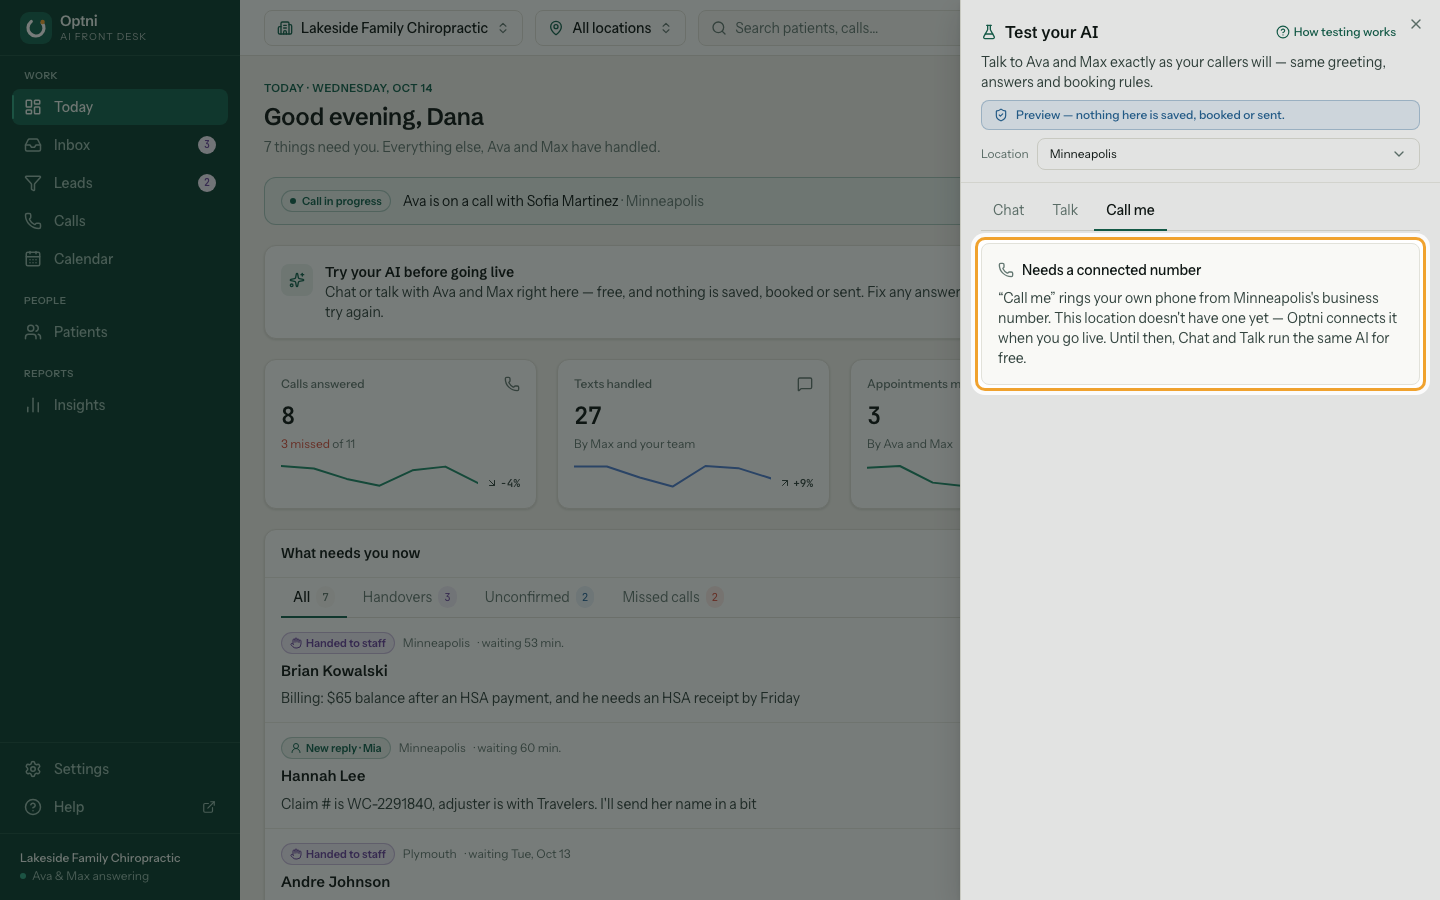
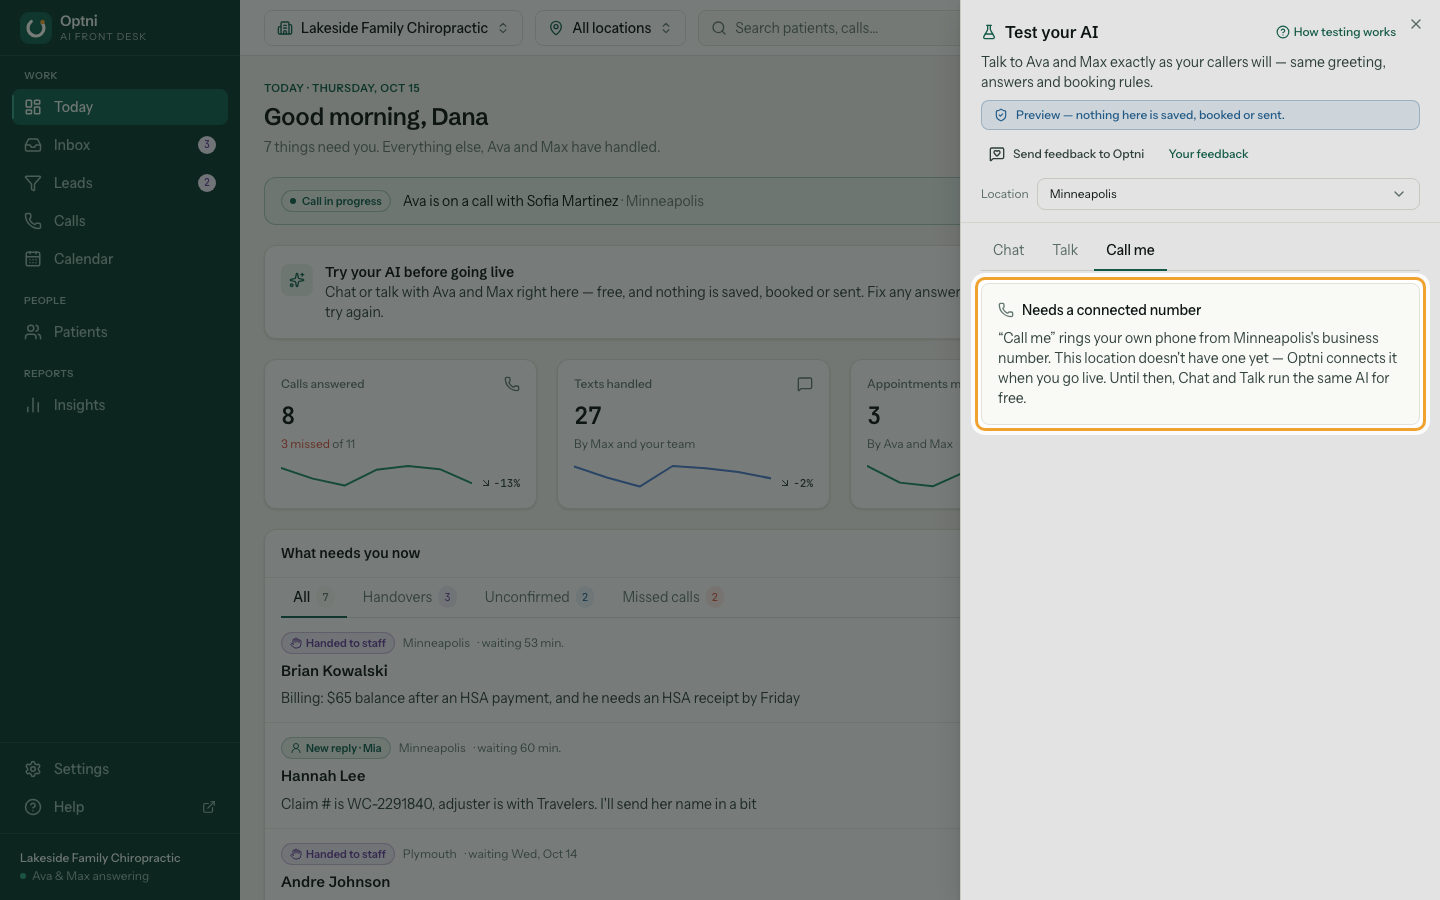
Guide: Tell us how your AI did (§15 feedback); recapture Test your AI
New guide /feedback/: thumbs up/down under a reply, what was wrong + note,
Send feedback to Optni, Help → Your feedback, statuses and the team's reply.
Sample-mode screenshots only (synthetic data); the team console is not shown.
Test your AI screenshots recaptured with the new feedback controls.

diff --git a/src/guides/content/feedback.ts b/src/guides/content/feedback.ts
@@ -1,0 +1,124 @@
+import type { Guide } from "../types.ts";
+import { button, inDialog, label, text } from "../targets.ts";
+
+const openPanel = { do: "click", target: button("Test your AI") } as const;
+const offer = [
+  openPanel,
+  { do: "click", target: { css: '[data-testid="sim-starter"]', nth: 0 } },
+  { do: "waitFor", target: inDialog({ text: "Which works for you?" }) },
+] as const;
+const offerReply = { css: '[data-testid="sim-ai"]', nth: 1 } as const;
+
+export default {
+  slug: "feedback",
+  title: "Tell us how your AI did",
+  description: "Rate any reply in Test your AI or send the Optni team a note. We fix what we can, or explain what the AI did and why — read the answer under Your feedback.",
+  category: "start",
+  order: 6,
+  roles: "Everyone on your team. Owners and admins see the whole team's feedback; staff see their own.",
+  intro:
+    "While you test your AI, tell us what you think. Give any reply a thumbs up or down, or send a note about the whole test. The Optni team reads every piece of feedback with the conversation and what the AI did, then fixes it for you or explains why the AI answered that way. You get an email and a notification when we reply.",
+  steps: [
+    {
+      id: "thumbs",
+      title: "Under any reply in Test your AI, select thumbs up or thumbs down.",
+      body: "They're under every reply on the Chat and Talk tabs. Thumbs up sends straight away.",
+      alt: "A reply from Ava in Test your AI with the thumbs up and thumbs down buttons ringed.",
+      shot: {
+        app: "web-sample",
+        path: "/",
+        actions: [...offer],
+        highlight: { css: '[data-testid="reply-feedback"]', nth: 1 },
+      },
+    },
+    {
+      id: "what-was-wrong",
+      title: "After a thumbs down, pick what was wrong and add a note.",
+      body: "Choose one or more — Wrong information, Missed a booking, Should have handed over, Tone, Too long, Didn't understand — and say what it should have said. Then select Send to Optni.",
+      alt: "The small form under a reply with Missed a booking selected and a note typed.",
+      shot: {
+        app: "web-sample",
+        path: "/",
+        actions: [
+          ...offer,
+          { do: "click", target: { role: "button", name: /Bad reply/, within: offerReply } },
+          { do: "click", target: text("Missed a booking", true) },
+          { do: "fill", target: label(/What should it have said/), value: "Offer Saturday mornings too — we're open 9 to 1." },
+        ],
+        highlight: { css: '[data-testid="reply-feedback-form"]' },
+        noArrow: true,
+      },
+    },
+    {
+      id: "send-feedback",
+      title: "To comment on the whole test, select Send feedback to Optni.",
+      body: "Write what you think. Include this test conversation is on, so we see what was said and what the AI did — turn it off to send only your note.",
+      alt: "The Send feedback to Optni dialog with Include this test conversation ringed.",
+      shot: {
+        app: "web-sample",
+        path: "/",
+        actions: [...offer, { do: "click", target: button("Send feedback to Optni") }, { do: "waitFor", target: { css: '[data-testid="send-feedback-dialog"]' } }, { do: "wait", ms: 400 }],
+        highlight: { label: /Include this test conversation/ },
+      },
+    },
+    {
+      id: "your-feedback",
+      title: "Read our replies under Help → Your feedback.",
+      body: "Open the account menu at the top right. It's also linked from the Test your AI panel.",
+      alt: "The account menu open with Your feedback ringed under Help.",
+      shot: { app: "web-sample", path: "/", actions: [{ do: "click", target: button("Account menu") }], highlight: { role: "menuitem", name: "Your feedback" } },
+    },
+    {
+      id: "list",
+      title: "Check the status of each piece of feedback.",
+      body: "Sent, Looking into it, Fixed, Answered or Closed. Optni replied shows when there's an answer to read.",
+      alt: "The Your feedback list with status chips and an Optni replied chip.",
+      shot: { app: "web-sample", path: "/feedback", actions: [{ do: "waitFor", target: { css: '[data-testid="feedback-row"]' } }], highlight: { css: '[data-testid="feedback-list"]' }, noArrow: true },
+    },
+    {
+      id: "reply",
+      title: "Open one to see our reply next to the conversation.",
+      body: "The reply you rated is marked, and What the AI did shows each step it took.",
+      alt: "A feedback page with the Optni team's reply ringed above the test conversation.",
+      shot: {
+        app: "web-sample",
+        path: "/feedback",
+        actions: [{ do: "click", target: { css: '[data-testid="feedback-row"]:has-text("Optni replied")' } }, { do: "waitFor", target: { css: '[data-testid="feedback-reply"]' } }],
+        highlight: { css: '[data-testid="feedback-reply"]' },
+        noArrow: true,
+      },
+    },
+    {
+      id: "phone",
+      title: "On your phone, it's the same page.",
+      alt: "Your feedback on a phone, showing the list of feedback with status chips.",
+      shot: { app: "web-sample", viewport: "mobile", path: "/feedback", actions: [{ do: "waitFor", target: { css: '[data-testid="feedback-row"]' } }] },
+    },
+  ],
+  sections: [
+    {
+      heading: "What the statuses mean",
+      table: {
+        head: ["Status", "What it means"],
+        rows: [
+          ["Sent", "We have it and haven't looked yet."],
+          ["Looking into it", "Someone on the Optni team is checking the conversation."],
+          ["Fixed", "We changed something for you. Test again to hear the difference."],
+          ["Answered", "We explained what the AI did and why — often a setting you can change yourself."],
+          ["Closed", "We won't change this one; the reply says why."],
+        ],
+      },
+    },
+    {
+      heading: "Good to know",
+      bullets: [
+        "We see the test conversation as it was when you sent the feedback, and what the AI did at each step.",
+        "Many answers come down to your settings: hours under Locations, and prices, policies and FAQs under What your AI should know.",
+        "When we reply you get an email and a notification. The email only links here — the reply itself stays in Optni.",
+        "You can send up to 60 pieces of feedback a day.",
+      ],
+    },
+  ],
+  related: ["test-your-ai", "ai-knowledge", "locations"],
+  keywords: ["feedback", "thumbs up", "thumbs down", "report a problem", "wrong answer", "reply from Optni", "your feedback", "support"],
+} satisfies Guide;

diff --git a/src/guides/content/test-your-ai.ts b/src/guides/content/test-your-ai.ts
@@ -140,9 +140,10 @@ export default {
         "Test conversations don't appear in your inbox, calls, leads or calendar and never count toward your plan.",
         "The AI always answers here, even when the location forwards calls, is closed or has calls switched off.",
         "Talk needs Chrome or Edge. In Safari or Firefox, use Chat — it runs the same AI.",
+        "Something off? Use the thumbs under a reply or Send feedback to Optni — see Tell us how your AI did.",
       ],
     },
   ],
-  related: ["ai-knowledge", "call-me-to-test", "greeting"],
+  related: ["feedback", "ai-knowledge", "call-me-to-test", "greeting"],
   keywords: ["test", "try", "simulator", "preview", "demo", "chat with Ava", "talk to Ava", "before going live", "sandbox"],
 } satisfies Guide;

diff --git a/src/guides/index.ts b/src/guides/index.ts
@@ -8,6 +8,7 @@ import recoveryCodes from "./content/recovery-codes.ts";
 import resetPassword from "./content/reset-password.ts";
 import testYourAi from "./content/test-your-ai.ts";
 import callMeToTest from "./content/call-me-to-test.ts";
+import feedback from "./content/feedback.ts";
 import inviteYourTeam from "./content/invite-your-team.ts";
 import switchBusinesses from "./content/switch-businesses.ts";
 import today from "./content/today.ts";
@@ -47,6 +48,7 @@ export const guides: Guide[] = [
   resetPassword,
   testYourAi,
   callMeToTest,
+  feedback,
   inviteYourTeam,
   switchBusinesses,
   today,
